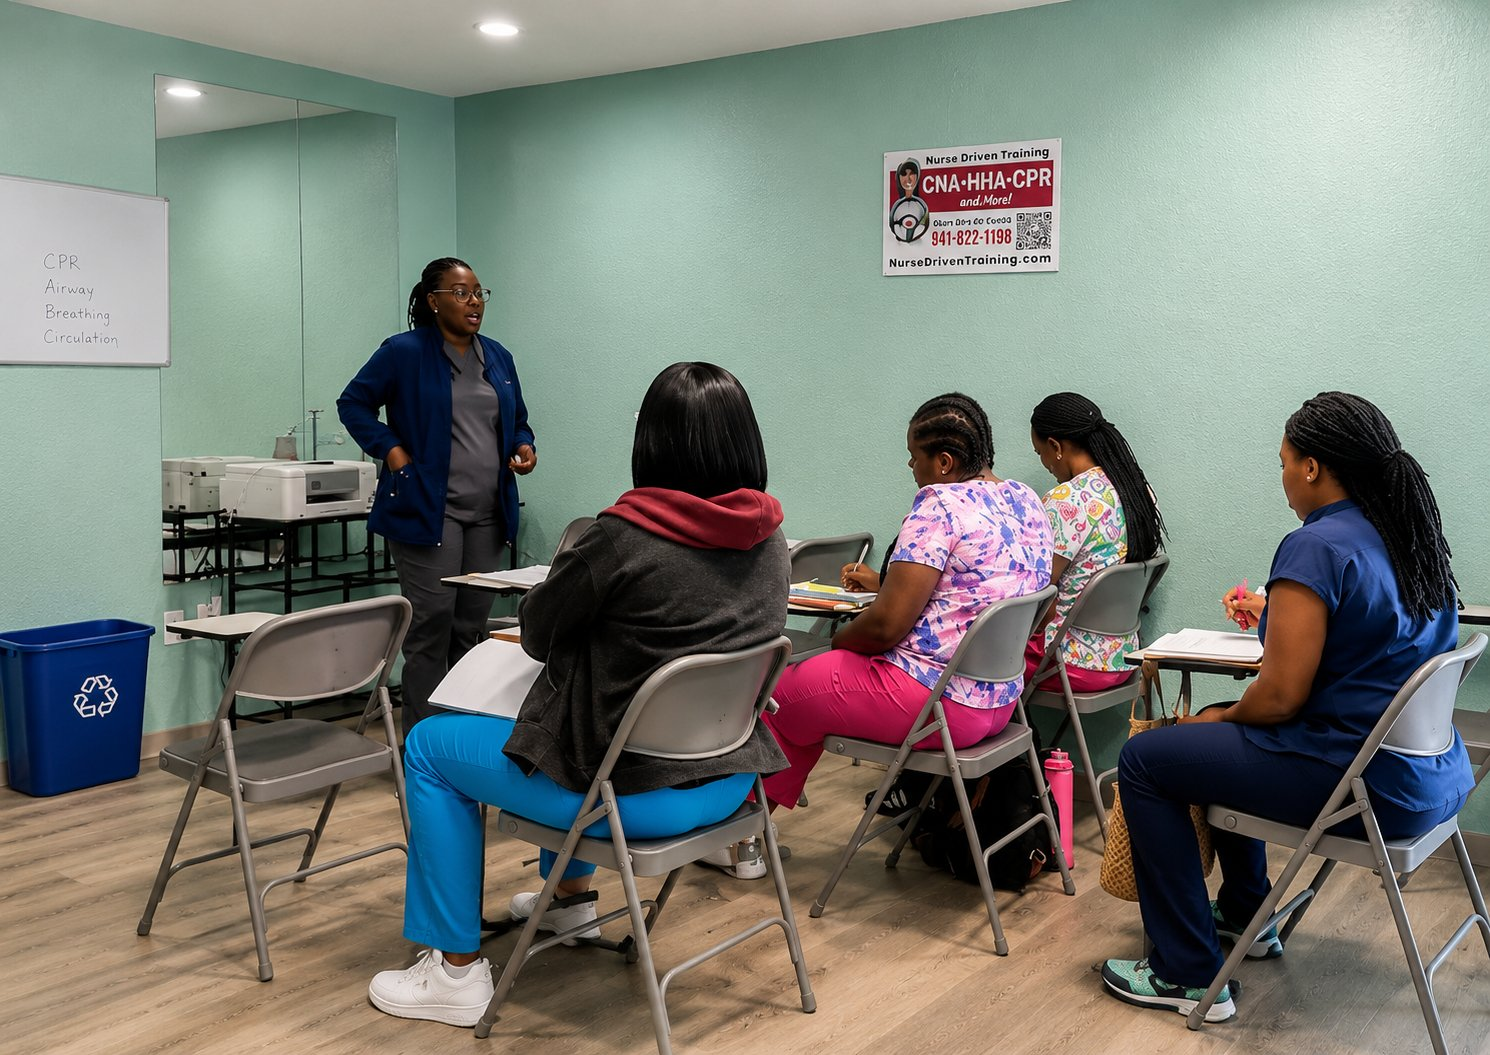
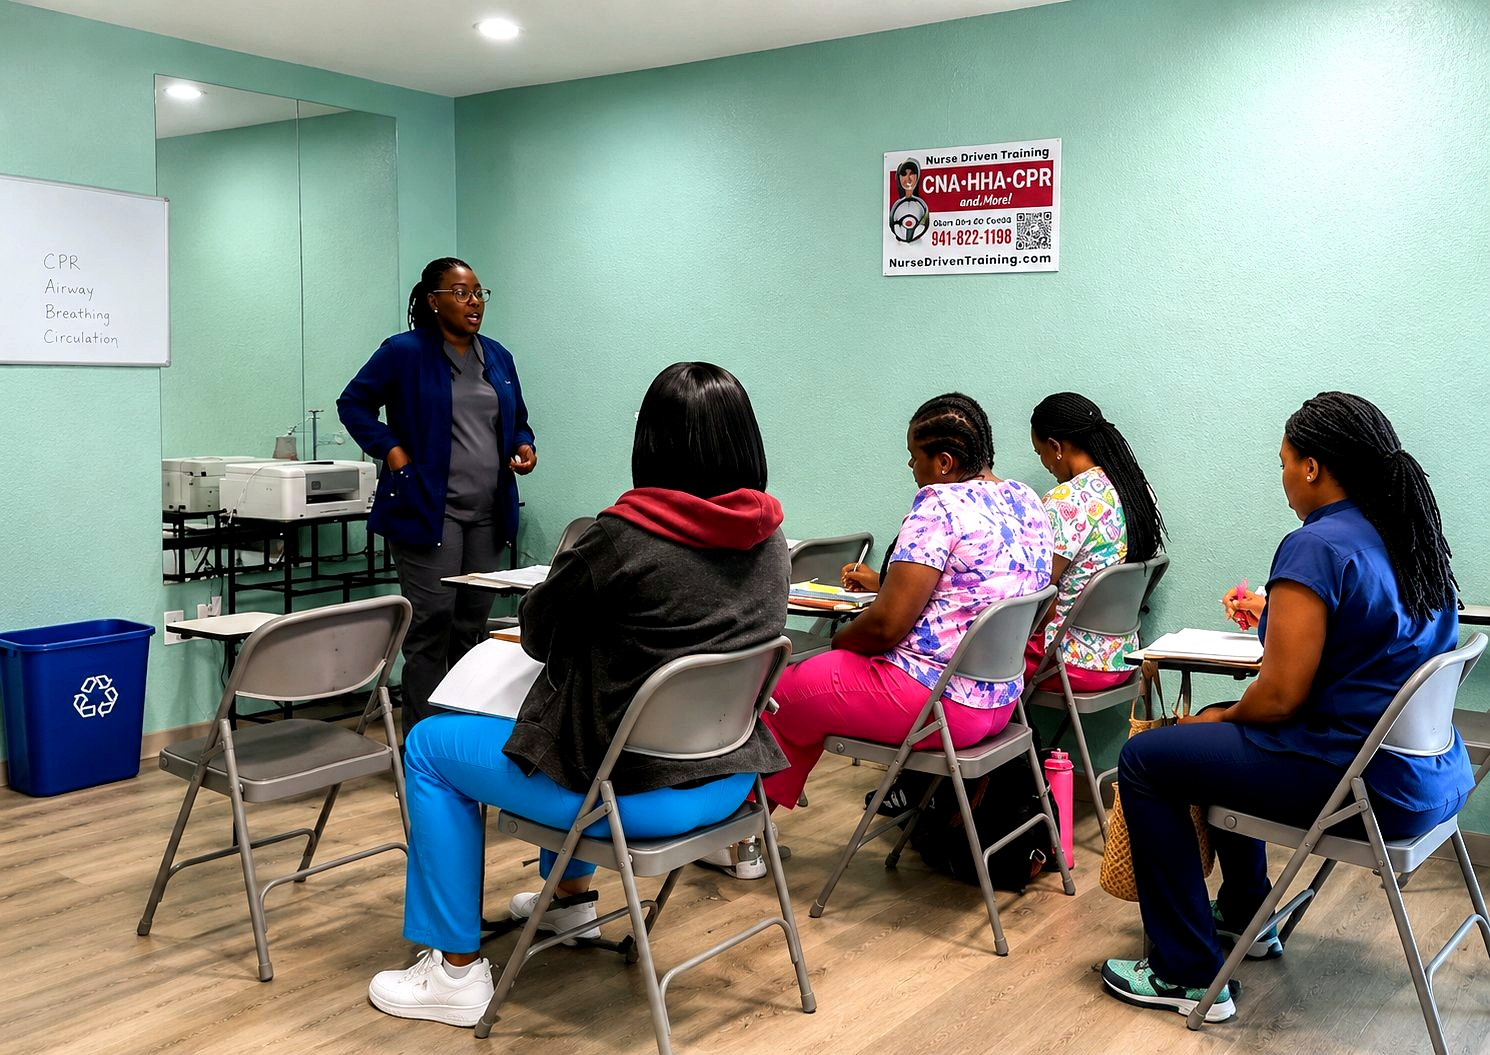
fix: repair dark-section heading contrast and optimize real photos with WebP

diff --git a/index.html b/index.html
@@ -116,7 +116,10 @@
       </div>
       <div class="hero-media">
         <div class="photo-frame wide">
-          <img src="assets/img/classroom-session.jpg" alt="Instructor leading a CPR and patient-care training session with students at Nurse Driven Training in Port Charlotte, FL" width="800" height="450" loading="eager">
+          <picture>
+            <source type="image/webp" srcset="assets/img/classroom-session.webp">
+            <img src="assets/img/classroom-session.jpg" alt="Instructor leading a CPR and patient-care training session with students at Nurse Driven Training in Port Charlotte, FL" width="800" height="450" loading="eager">
+          </picture>
         </div>
       </div>
     </div>
@@ -140,7 +143,10 @@
       </div>
       <div class="grid grid-2" style="align-items:center;">
         <div class="photo-frame tall">
-          <img src="assets/img/team-welcome.jpg" alt="The Nurse Driven Training team welcoming visitors outside their Port Charlotte, FL location" width="600" height="800" loading="lazy">
+          <picture>
+            <source type="image/webp" srcset="assets/img/team-welcome.webp">
+            <img src="assets/img/team-welcome.jpg" alt="The Nurse Driven Training team welcoming visitors outside their Port Charlotte, FL location" width="600" height="800" loading="lazy">
+          </picture>
         </div>
         <div>
           <h3>Small classes. Real mentorship. A clear path forward.</h3>
@@ -160,7 +166,7 @@
     <div class="container">
       <div class="section-head center">
         <span class="kicker">Classes We Offer</span>
-        <h2>Programs designed to get you certified and job-ready</h2>
+        <h2>Programs designed to prepare you for certification and a healthcare career</h2>
       </div>
       <div class="grid grid-3">
         <article class="card">

diff --git a/about.html b/about.html
@@ -108,7 +108,10 @@
         <p>Through hands-on training, mentorship, and real-world experience, our nurses guide students toward confidence, competency, and long-term career success — not just a passing exam score.</p>
       </div>
       <div class="photo-frame tall">
-        <img src="assets/img/exterior-storefront.jpg" alt="Nurse Driven Training's Port Charlotte, FL location at 2270 Tamiami Trail" width="600" height="800" loading="lazy">
+        <picture>
+          <source type="image/webp" srcset="assets/img/exterior-storefront.webp">
+          <img src="assets/img/exterior-storefront.jpg" alt="Nurse Driven Training's Port Charlotte, FL location at 2270 Tamiami Trail" width="600" height="800" loading="lazy">
+        </picture>
       </div>
     </div>
   </section>
@@ -121,7 +124,10 @@
       </div>
       <div class="grid grid-2" style="align-items:center;">
         <div class="photo-frame wide">
-          <img src="assets/img/team-welcome.jpg" alt="The Nurse Driven Training team welcoming visitors outside their Port Charlotte, FL location" width="800" height="450" loading="lazy">
+          <picture>
+            <source type="image/webp" srcset="assets/img/team-welcome.webp">
+            <img src="assets/img/team-welcome.jpg" alt="The Nurse Driven Training team welcoming visitors outside their Port Charlotte, FL location" width="800" height="450" loading="lazy">
+          </picture>
         </div>
         <div>
           <p>Nurse Driven Training is led by nurses who bring real clinical experience into the classroom. Every class is taught by instructors who have worked at the bedside — not just studied the material.</p>

diff --git a/css/styles.css b/css/styles.css
@@ -14,6 +14,7 @@
   --gold-light: #F7A8B8; /* WCAG AA-safe strawberry for text on dark berry backgrounds */
   --gold-tint: #FDEDE1;  /* peachy cream tint */
   --on-gold: #3A1220;    /* WCAG AA-safe dark text for use on top of --gold buttons */
+  --peach-heading: #F5A897; /* warm coral-peach for headings on dark berry backgrounds — ~4.9:1 vs --navy, ~7.6:1 vs --navy-dark (WCAG AA safe) */
   --sage: #8FAE8C;       /* muted leaf green — a nod to the strawberry leaf */
   --sage-tint: #EEF4EC;
   --cream: #FFF8F4;      /* warm cream background */
@@ -79,8 +80,16 @@ section { padding: var(--space-6) 0; }
 .section-tight { padding: var(--space-5) 0; }
 .section-alt { background: var(--white); }
 .section-navy { background: var(--navy); color: var(--white); }
-.section-navy h2, .section-navy h3 { color: var(--white); }
 .section-sage { background: var(--sage-tint); }
+
+/* Headings on dark berry backgrounds — the global h1-h4 rule below sets var(--navy),
+   which is nearly invisible on these backgrounds. Override with a WCAG AA-safe peach. */
+.hero h1, .hero h2, .hero h3, .hero h4,
+.page-hero h1, .page-hero h2, .page-hero h3, .page-hero h4,
+.cta-banner h1, .cta-banner h2, .cta-banner h3, .cta-banner h4,
+.section-navy h1, .section-navy h2, .section-navy h3, .section-navy h4 {
+  color: var(--peach-heading);
+}
 
 /* Skip link */
 .skip-link {

diff --git a/contact.html b/contact.html
@@ -195,7 +195,10 @@
         <h2>2270 Tamiami Trail, Port Charlotte, FL 33952</h2>
       </div>
       <div class="photo-frame wide" style="max-width:900px;margin:0 auto;">
-        <img src="assets/img/exterior-storefront.jpg" alt="Nurse Driven Training's Port Charlotte, FL location on Tamiami Trail" width="900" height="506" loading="lazy">
+        <picture>
+          <source type="image/webp" srcset="assets/img/exterior-storefront.webp">
+          <img src="assets/img/exterior-storefront.jpg" alt="Nurse Driven Training's Port Charlotte, FL location on Tamiami Trail" width="900" height="506" loading="lazy">
+        </picture>
       </div>
       <p class="text-center" style="margin-top:var(--space-3);">
         <a class="btn btn-ghost" href="https://www.google.com/maps/search/?api=1&amp;query=2270+Tamiami+Trail+Port+Charlotte+FL+33952" target="_blank" rel="noopener">Get Directions</a>

diff --git a/cna-training-program.html b/cna-training-program.html
@@ -152,7 +152,10 @@
         <h2>Real, hands-on training</h2>
       </div>
       <div class="photo-frame wide" style="max-width:760px;margin:0 auto;">
-        <img src="assets/img/classroom-session.jpg" alt="CNA skills instruction inside the Nurse Driven Training classroom in Port Charlotte, FL" width="760" height="428" loading="lazy">
+        <picture>
+          <source type="image/webp" srcset="assets/img/classroom-session.webp">
+          <img src="assets/img/classroom-session.jpg" alt="CNA skills instruction inside the Nurse Driven Training classroom in Port Charlotte, FL" width="760" height="428" loading="lazy">
+        </picture>
       </div>
     </div>
   </section>

diff --git a/CHANGELOG.md b/CHANGELOG.md
@@ -1,0 +1,42 @@
+# Nurse Driven Training — Changelog
+
+## Contrast and color repairs
+
+- **Fixed a real dark-on-dark bug**: the global `h1, h2, h3, h4 { color: var(--navy); }` rule was overriding the light text color on every dark-background section, making the homepage hero heading ("Start a healthcare career, guided by nurses who've done the work."), the "Partner With Us" banner heading, and every inner-page hero heading nearly invisible against the deep berry background.
+- Added a new `--peach-heading` CSS variable (`#F5A897`, a warm coral-peach) and a single component-level override (`.hero`, `.page-hero`, `.cta-banner`, `.section-navy` headings) so every heading on a dark berry background now renders in a clearly readable peach-coral instead of dark berry text.
+- Verified contrast mathematically against both ends of the hero/CTA gradient: ~4.9:1 against the lighter `--navy` and ~7.6:1 against the darker `--navy-dark` — both comfortably clear the WCAG AA large-text minimum of 3:1, and clear the normal-text minimum of 4.5:1 as well.
+- Confirmed via search that this fix covers every actual instance in the codebase: all `.hero h1` and `.page-hero h1` headings sitewide, and all 12 `.cta-banner h2` CTA headings across every page.
+
+## Image corrections and optimizations
+
+- Enhanced the three real site photographs (`classroom-session.jpg`, `team-welcome.jpg`, `exterior-storefront.jpg`) to fix the washed-out, flat appearance: reclaimed true black/white points (auto-contrast), and applied a modest, tasteful boost to contrast, saturation, and sharpness — deliberately restrained to avoid unnatural skin tones or a heavy color-filter look.
+- Re-exported all three as optimized WebP files alongside the originals, and converted every `<img>` reference to these photos (6 places across `index.html`, `about.html` ×2, `cna-training-program.html`, `contact.html`) into a `<picture>` element with a WebP `<source>` and the original JPEG as fallback — smaller file size for supporting browsers with no loss of compatibility.
+- Preserved every existing `width`/`height` attribute and `alt` text exactly as before, so there is no layout shift and no accessibility regression from this change.
+- Left image crop/aspect ratio handling as-is (`.photo-frame` + `object-fit: cover`), since it was already correctly tuned for each placement.
+
+## Accessibility changes
+
+- Re-verified (did not need to change): exactly one `<h1>` per page across all 15 pages, no duplicate `id` attributes anywhere, every `<img>` has alt text, every `<label for>` has a matching field id, every skip-link target exists, `lang="en"` is present on every page.
+- The heading-contrast fix above is itself an accessibility fix (WCAG 1.4.3/1.4.11 contrast).
+
+## UX and conversion changes
+
+- Softened the homepage programs-section heading from "Programs designed to get you certified and job-ready" to "Programs designed to prepare you for certification and a healthcare career" — the original phrasing could be read as promising a guaranteed outcome; the new phrasing accurately describes program intent without implying a guarantee.
+
+## SEO/schema changes
+
+- No schema structure changes were needed this pass; existing Organization/EducationalOrganization, Course, FAQPage, and BreadcrumbList schema were spot-checked and still match visible page content.
+
+## Performance and technical changes
+
+- WebP image variants reduce transferred image weight by roughly 30–35% versus the JPEG originals on supporting browsers, with no fallback risk (JPEG `<img>` remains the fallback source).
+- No console-error-prone patterns found (no orphaned label targets, no duplicate IDs, no missing asset references) — verified via a full sitewide link/asset/label audit.
+
+## Re-verified and confirmed clean (no changes needed)
+
+- Full sitewide scan for "accredited program," "state-approved school," "guaranteed certification/employment/exam passage," "nationally recognized," and named certifying bodies — none found. All accreditation-related copy consistently uses the approved transparency language: *"Nurse Driven Training is currently seeking a qualified sponsor facility as part of its pathway toward the applicable program approval and accreditation requirements. We are committed to transparency, educational quality, and full compliance throughout this process."*
+- No broken internal links or missing image/script references anywhere on the site.
+
+## Content that still requires owner verification
+
+See `OWNER-VERIFICATION.md` for the full list. Highlights: confirming the accreditation/sponsorship status wording still matches reality at launch time, instructor/founder credentials, next cohort start date, and a real browser-based Lighthouse/accessibility pass (not performed in this environment).

diff --git a/OWNER-VERIFICATION.md b/OWNER-VERIFICATION.md
@@ -1,0 +1,58 @@
+# Nurse Driven Training — Owner Verification
+
+Facts and decisions that need your confirmation before (or shortly after) launch. Nothing below has been guessed or fabricated — anything not independently verified is listed here rather than asserted on the site.
+
+## Accreditation / sponsor status
+
+- [ ] The site currently states: *"Nurse Driven Training is currently seeking a qualified sponsor facility as part of its pathway toward the applicable program approval and accreditation requirements."* Please confirm this is still accurate at launch.
+- [ ] Nurse Driven Training is **not** described anywhere as accredited, state-approved, or licensed — this is intentional per your prior instruction. Do not add stronger accreditation language without providing documentation.
+- [ ] Once a sponsor facility is secured, let me know so this language can be updated to reflect real, confirmed progress.
+
+## Program approval language
+
+- [ ] Confirm the exact wording Florida (or any relevant regulatory body) requires you to use, if any, once a sponsor/approval process is underway — the current wording is deliberately generic pending that guidance.
+
+## Certification / issuing organization
+
+- [ ] CPR Certification: confirm which organization's curriculum or card is actually used (e.g., American Heart Association, American Red Cross, or another provider). The site currently does not name a certifying body because this wasn't confirmed — if you want to name one, provide the name and I'll add it accurately.
+- [ ] CNA/HHA programs: confirm exact language for "eligible to sit for the Florida state CNA certification exam" — the site is careful to say "eligible to sit for," not "will pass" or "will be certified."
+
+## Tuition and fees
+
+- [ ] CNA Training Program: $1,275 + $25 registration fee
+- [ ] HHA Program: $240 + $25 registration fee
+- [ ] CPR Certification: $75 + $25 registration fee
+- [ ] Please confirm these are still current before launch.
+
+## Schedule and start dates
+
+- [ ] Classes: Wednesday, Friday, Saturday — confirm still accurate
+- [ ] Next CNA cohort start date — site currently says "contact us for the current start date" since this changes often; confirm you're comfortable keeping this phrasing indefinitely or want it updated per cohort
+
+## Refund policy
+
+- [ ] No refund policy is currently published anywhere on the site. If you have one, provide the exact terms so it can be added (likely to Privacy Policy or a new dedicated page) — publishing a clear refund policy is generally expected for paid training programs and may be a compliance requirement depending on your regulatory pathway.
+
+## Clinical requirements
+
+- [ ] Confirm what "clinical experience" / "hands-on skills practice" concretely consists of today (in-house skills lab only, or an actual outside clinical site) — current copy describes this generally and does not name a specific clinical site partner.
+
+## Instructor / founder credentials
+
+- [ ] Instructor and/or founder name(s), license/credential type (e.g., RN, LPN), and a short bio — currently generic on the About page, not fabricated.
+
+## Facility partnerships
+
+- [ ] Any named clinical site partners or facility sponsors you'd like specifically credited on the Clinical Partnerships or Sponsor Us pages (currently kept general on purpose).
+- [ ] Confirm you're monitoring the new Sponsor Us facility-inquiry form submissions (Netlify form `facility-sponsorship`) once live.
+
+## Accessibility testing not performed in this environment
+
+The contrast fix in this pass was verified by direct WCAG relative-luminance calculation against the CSS color values, not by running a browser. Before or shortly after launch, please have someone run:
+
+- [ ] A Lighthouse or axe DevTools accessibility scan on the live URL
+- [ ] A keyboard-only walkthrough of the whole site
+- [ ] A 200% browser zoom check
+- [ ] A quick check in Chrome, Edge, Firefox, and Safari at a few of the required breakpoints (320px, 375px, 768px, 1280px)
+
+None of these require code changes unless they turn something up — they're verification steps that need an actual browser, which wasn't available while making these changes.
